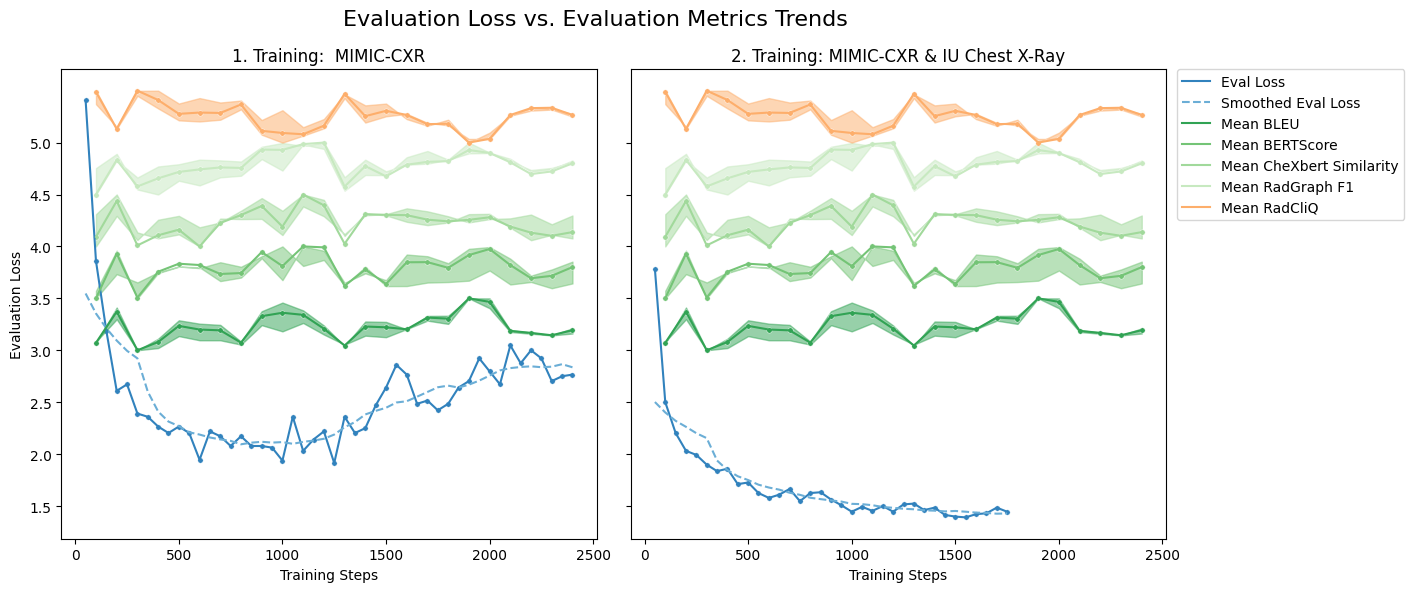
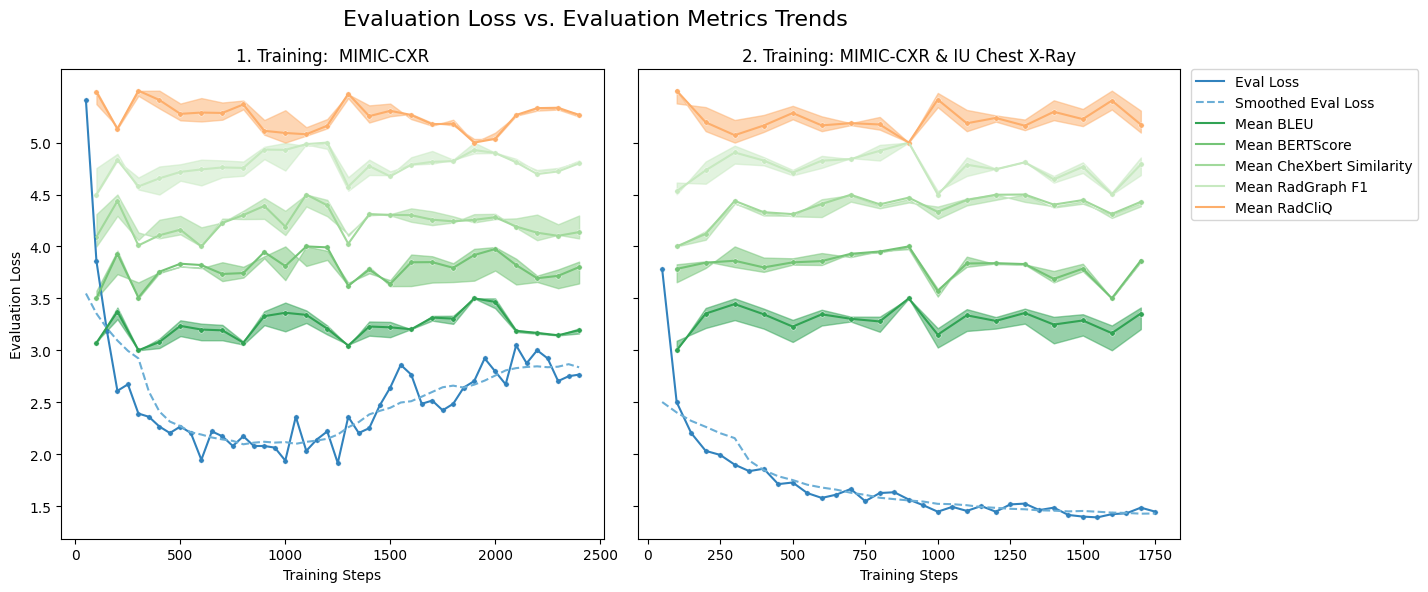
Last update plots

diff --git a/plots/plot_magma_results.py b/plots/plot_magma_results.py
@@ -85,7 +85,9 @@ def create_plot(eval_csv: str, metrics_csv: str, run_name: str, ax: plt.Axes):
     plt.tight_layout()
     return fig
 
-def get_best_metrics(metrics_csv: str):
+def get_best_metrics(metrics_csv: str, run_name: str):
+    print(f'Run name: {run_name}:')
+
     max_metrics = ['mean_bleu', 'mean_bertscore', 'mean_sembscore', 'mean_radgraphcombined']
     min_metrics = ['mean_cxrmetric']
     
@@ -113,18 +115,19 @@ def get_best_metrics(metrics_csv: str):
         
     # Print out max values and corresponding steps
     for metric, value, step in zip(max_metrics, max_values, max_steps):
-        print(f'Max {metric}: {value} at step {step}')
+        print(f'\tMax {metric}: {value} at step {step}')
     
     # Print out min values and corresponding steps
     for metric, value, step in zip(min_metrics, min_values, min_steps):
-        print(f'Min {metric}: {value} at step {step}')
+        print(f'\tMin {metric}: {value} at step {step}')
 
 
 def get_best_eval_model(eval_csv: str, run_name: str):
+    print(f'Run name: {run_name}:')
     eval = pd.read_csv(eval_csv)
     min_eval_loss = eval[f'{run_name} - eval/loss'].min()
     min_eval_loss_step = eval[eval[f'{run_name} - eval/loss'] == min_eval_loss].iloc[0]['Step']
-    print(f'Min eval loss: {min_eval_loss} at step {min_eval_loss_step}')
+    print(f'\tMin eval loss: {min_eval_loss} at step {min_eval_loss_step}')
 
 if __name__ == "__main__":
 
@@ -134,7 +137,7 @@ if __name__ == "__main__":
     
     
     eval_csv_train2 = 'training2_evaluation.csv'
-    metrics_csv_train2 = 'training1_metrics.csv'
+    metrics_csv_train2 = 'training2_metrics.csv'
     run_name2 = 'denim-sound-65'
     
     fig, (ax1, ax2) = plt.subplots(1, 2, figsize=(12, 6), sharey=True)
@@ -162,8 +165,8 @@ if __name__ == "__main__":
     fig.figure.savefig('train1_train2_combined.png', bbox_inches='tight')
     
     
-    get_best_metrics(metrics_csv_train1)
-    get_best_metrics(metrics_csv_train2)
+    get_best_metrics(metrics_csv_train1, run_name1)
+    get_best_metrics(metrics_csv_train2, run_name2)
     
     get_best_eval_model(eval_csv_train1, run_name1)
     get_best_eval_model(eval_csv_train2, run_name2)
